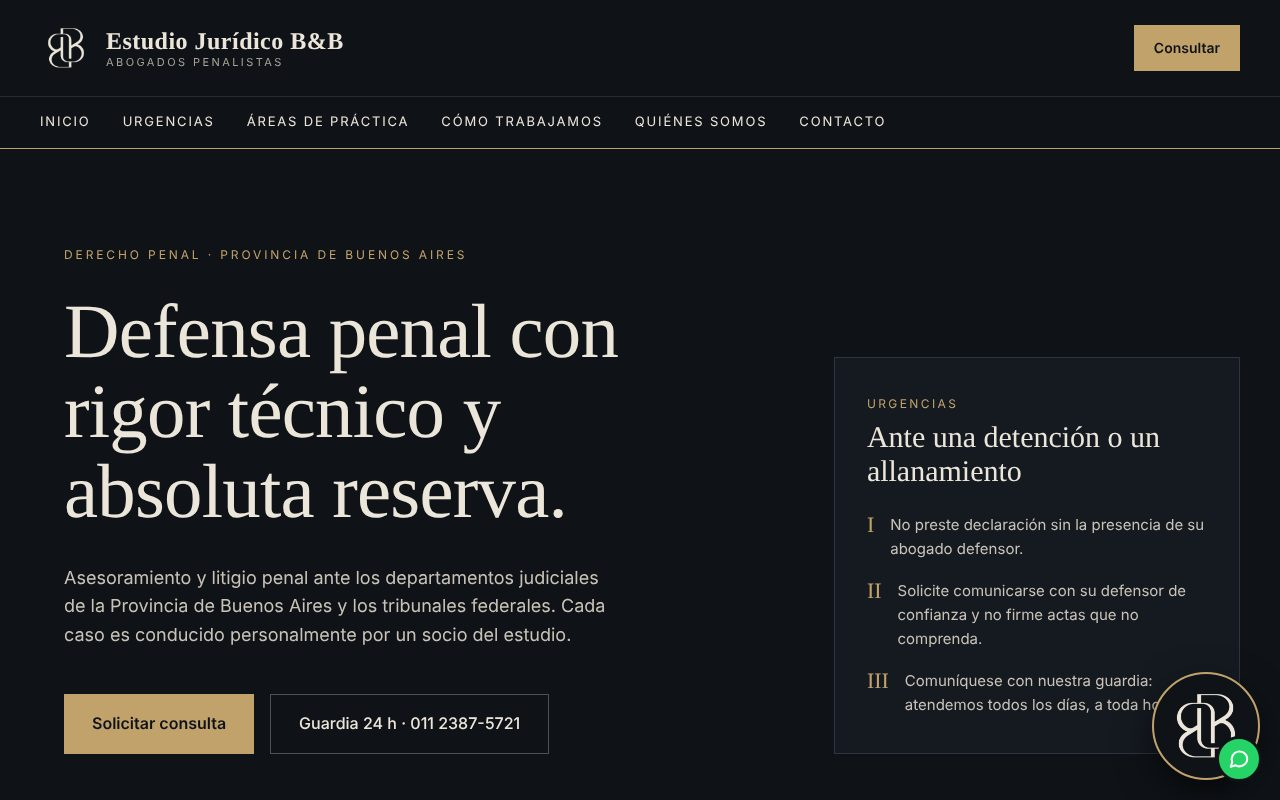
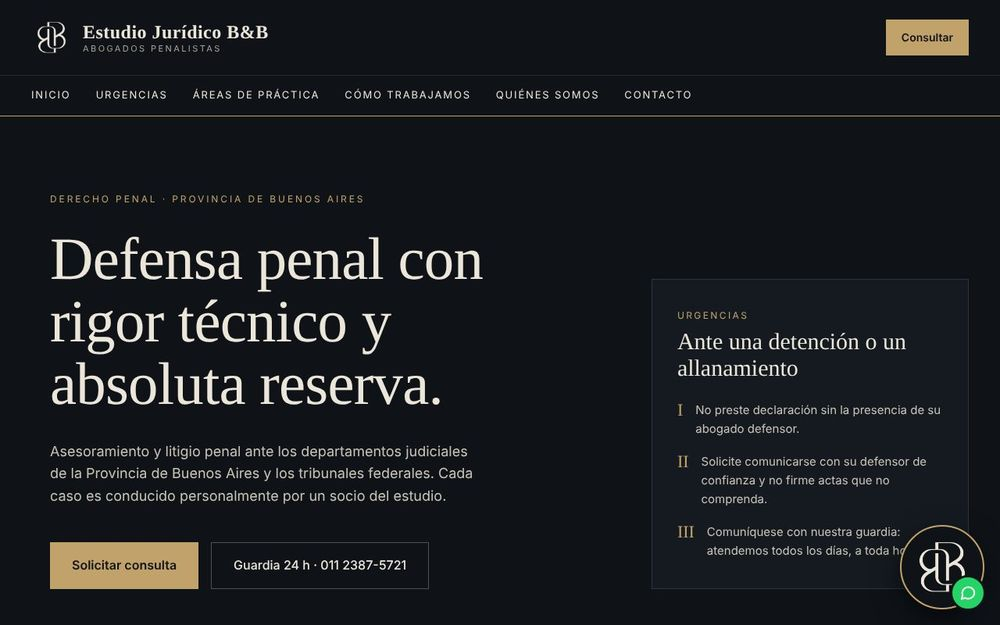
Optimización: más aire en celular, dos columnas en escritorio, imágenes livianas y carga diferida
Claude-Session: https://claude.ai/code/session_01TuFqLeTSKfkFnjbQhhk68N

diff --git a/index.html b/index.html
@@ -355,7 +355,7 @@ body{background:#011F4F!important;background-image:none!important}
 <link rel="stylesheet" href="barra.css">
 </head><body><script>(function(){try{if('scrollRestoration' in history)history.scrollRestoration='manual'}catch(e){}function t(){if(!location.hash)window.scrollTo(0,0)}t();window.addEventListener('load',t);window.addEventListener('pageshow',t)})();</script>
 <header class="lb" id="lbar"><div class="lbin"><a class="lblg" href="index.html" aria-label="legAR, inicio"><img src="legar-tab-blanco.png" alt="legAR" width="63" height="20"></a><a class="lbcta" href="https://wa.me/5492215581661?text=Hola%2C%20vengo%20de%20la%20web%20de%20legAR.%20Quiero%20delegar%20un%20tr%C3%A1mite." target="_blank" rel="noopener"><svg viewBox="0 0 24 24" aria-hidden="true"><path d="M12 2a10 10 0 00-8.6 15.1L2 22l5-1.3A10 10 0 1012 2z" fill="none" stroke="currentColor" stroke-width="2" stroke-linejoin="round"/><path d="M8.5 9.2c.3 2.6 2.7 5 5.3 5.3l1.2-1.3 1.9.9c-.3 1.3-1.4 1.9-2.6 1.8-3.6-.4-6.6-3.4-7-7-.1-1.2.5-2.3 1.8-2.6l.9 1.9z" fill="currentColor"/></svg>WhatsApp</a><button class="lbix" id="lbmb" type="button" aria-expanded="false" aria-controls="lbmn"><svg class="ich" viewBox="0 0 24 24" fill="none" stroke="currentColor" stroke-width="2.2" stroke-linecap="round" aria-hidden="true"><path d="M4 7h16M4 12h16M4 17h10"/></svg><svg class="icx" viewBox="0 0 24 24" fill="none" stroke="currentColor" stroke-width="2.2" stroke-linecap="round" aria-hidden="true"><path d="M6 6l12 12M18 6L6 18"/></svg><span class="t">Índice</span></button></div><nav class="lbtabs" aria-label="Páginas"><a href="index.html" aria-current="page">legAR</a><a href="gestoria.html">Gestoría</a><a href="marketing.html">Marketing jurídico</a><a href="novedades.html">Novedades</a><a href="jurisprudencia.html">Jurisprudencia</a></nav></header><nav class="lbmn" id="lbmn" aria-label="Índice"><div class="lbmw"><p class="lbml">En esta página</p><ol id="lbix"></ol><a class="lbseg" href="gestoria.html#seguimiento"><svg viewBox="0 0 24 24" fill="none" stroke="currentColor" stroke-width="2" stroke-linecap="round" stroke-linejoin="round" aria-hidden="true"><path d="M7 3h7l5 5v6"/><path d="M14 3v5h5M7 3v18h6"/><circle cx="17.5" cy="17.5" r="3"/><path d="M20 20l2 2"/></svg><span><b>Seguí tu trámite</b><span>Entrá con tu código de seguimiento</span></span></a><p class="lbml">Páginas</p><div class="lbpg"><a href="index.html" aria-current="page">legAR</a><a href="gestoria.html">Gestoría</a><a href="marketing.html">Marketing jurídico</a><a href="novedades.html">Novedades</a><a href="jurisprudencia.html">Jurisprudencia</a></div><div class="lbft"><a href="https://instagram.com/diligenciaslp" target="_blank" rel="noopener">Instagram</a><a href="https://wa.me/5492215581661" target="_blank" rel="noopener">WhatsApp 221 558-1661</a><span>Diligenciaslp@gmail.com</span></div></div></nav>
-<header class="hd" style="justify-content:center"><a href="index.html"><img src="legar-logo-blanco.png" alt="legAR" width="160" height="129" style="width:160px;height:auto;aspect-ratio:560/452"></a></header>
+<header class="hd" style="justify-content:center"><a href="index.html"><img src="legar-logo-blanco.png" alt="legAR" width="160" height="129" style="width:160px;height:auto;aspect-ratio:560/452" loading="lazy" decoding="async"></a></header>
 <div class="hcw"><span class="chip hc">Hecho para <b>abogados</b>, <b>estudios jurídicos y contables</b></span></div>
 
 <main class="c">
@@ -376,7 +376,7 @@ body{background:#011F4F!important;background-image:none!important}
 <p class="dfin"><img class="dfl" src="legar-tab-blanco.png" alt="legAR"><span>Presencia, conocimiento e imagen al servicio de tu ejercicio profesional.</span></p><p class="dsrc">Fuente: Diccionario de la lengua española, Real Academia Española.</p></div></section>
 
 <section style="padding-top:10px"><h2>Conocé a <span class="hl">Nicolás Poblete</span></h2><p class="sub">Fundador de legAR · Estudiante avanzado de Derecho (UNLP)</p>
-<img class="me2" src="nicolas.jpg" alt="Nicolás Poblete, creador de legAR" width="340">
+<img class="me2" src="nicolas.jpg" alt="Nicolás Poblete, creador de legAR" width="340" loading="lazy" decoding="async">
 <p style="color:#B8C0CE">Fundé legAR desde la práctica: recorriendo registros, tribunales y organismos, entendí cuánto le cuesta a un abogado gestionar fuera de su jurisdicción.</p>
 <p style="color:#B8C0CE">Mi propósito es que legAR sea su herramienta de trabajo en las dos dimensiones de la profesión: hacia adentro, con cada trámite resuelto en persona y con seguimiento; y hacia afuera, con una imagen que transmita confianza y le acerque nuevos clientes.</p>
 <p><b>Vos delegás, nosotros resolvemos.</b></p></section>

diff --git a/jurisprudencia.html b/jurisprudencia.html
@@ -384,7 +384,7 @@ body{background:#011F4F!important;background-image:none!important}
 <link rel="stylesheet" href="barra.css">
 </head><body><script>(function(){try{if('scrollRestoration' in history)history.scrollRestoration='manual'}catch(e){}function t(){if(!location.hash)window.scrollTo(0,0)}t();window.addEventListener('load',t);window.addEventListener('pageshow',t)})();</script>
 <header class="lb" id="lbar"><div class="lbin"><a class="lblg" href="index.html" aria-label="legAR, inicio"><img src="legar-tab-blanco.png" alt="legAR" width="63" height="20"></a><a class="lbcta" href="https://wa.me/5492215581661?text=Hola%2C%20vengo%20de%20la%20web%20de%20legAR.%20Quiero%20delegar%20un%20tr%C3%A1mite." target="_blank" rel="noopener"><svg viewBox="0 0 24 24" aria-hidden="true"><path d="M12 2a10 10 0 00-8.6 15.1L2 22l5-1.3A10 10 0 1012 2z" fill="none" stroke="currentColor" stroke-width="2" stroke-linejoin="round"/><path d="M8.5 9.2c.3 2.6 2.7 5 5.3 5.3l1.2-1.3 1.9.9c-.3 1.3-1.4 1.9-2.6 1.8-3.6-.4-6.6-3.4-7-7-.1-1.2.5-2.3 1.8-2.6l.9 1.9z" fill="currentColor"/></svg>WhatsApp</a><button class="lbix" id="lbmb" type="button" aria-expanded="false" aria-controls="lbmn"><svg class="ich" viewBox="0 0 24 24" fill="none" stroke="currentColor" stroke-width="2.2" stroke-linecap="round" aria-hidden="true"><path d="M4 7h16M4 12h16M4 17h10"/></svg><svg class="icx" viewBox="0 0 24 24" fill="none" stroke="currentColor" stroke-width="2.2" stroke-linecap="round" aria-hidden="true"><path d="M6 6l12 12M18 6L6 18"/></svg><span class="t">Índice</span></button></div><nav class="lbtabs" aria-label="Páginas"><a href="index.html">legAR</a><a href="gestoria.html">Gestoría</a><a href="marketing.html">Marketing jurídico</a><a href="novedades.html">Novedades</a><a href="jurisprudencia.html" aria-current="page">Jurisprudencia</a></nav></header><nav class="lbmn" id="lbmn" aria-label="Índice"><div class="lbmw"><p class="lbml">En esta página</p><ol id="lbix"></ol><a class="lbseg" href="gestoria.html#seguimiento"><svg viewBox="0 0 24 24" fill="none" stroke="currentColor" stroke-width="2" stroke-linecap="round" stroke-linejoin="round" aria-hidden="true"><path d="M7 3h7l5 5v6"/><path d="M14 3v5h5M7 3v18h6"/><circle cx="17.5" cy="17.5" r="3"/><path d="M20 20l2 2"/></svg><span><b>Seguí tu trámite</b><span>Entrá con tu código de seguimiento</span></span></a><p class="lbml">Páginas</p><div class="lbpg"><a href="index.html">legAR</a><a href="gestoria.html">Gestoría</a><a href="marketing.html">Marketing jurídico</a><a href="novedades.html">Novedades</a><a href="jurisprudencia.html" aria-current="page">Jurisprudencia</a></div><div class="lbft"><a href="https://instagram.com/diligenciaslp" target="_blank" rel="noopener">Instagram</a><a href="https://wa.me/5492215581661" target="_blank" rel="noopener">WhatsApp 221 558-1661</a><span>Diligenciaslp@gmail.com</span></div></div></nav>
-<header class="hd" style="justify-content:center"><a href="index.html"><img src="legar-logo-blanco.png" alt="legAR" width="160" height="129" style="width:160px;height:auto;aspect-ratio:560/452"></a></header>
+<header class="hd" style="justify-content:center"><a href="index.html"><img src="legar-logo-blanco.png" alt="legAR" width="160" height="129" style="width:160px;height:auto;aspect-ratio:560/452" loading="lazy" decoding="async"></a></header>
 <div class="hcw"><span class="chip hc">Hecho para <b>abogados</b>, <b>estudios jurídicos y contables</b></span></div>
 
 <main class="c"><section class="hero"><span class="kick">JURISPRUDENCIA OFICIAL</span><p style="margin-top:10px">Los fallos que <b style="color:#fff;text-decoration:underline;text-decoration-color:#4DA36C;text-decoration-thickness:3px;text-underline-offset:4px">mueven</b> tus trámites, a un toque de la fuente oficial.</p></section>

diff --git a/novedades.html b/novedades.html
@@ -363,7 +363,7 @@ body{background:#011F4F!important;background-image:none!important}
 <link rel="stylesheet" href="barra.css">
 </head><body><script>(function(){try{if('scrollRestoration' in history)history.scrollRestoration='manual'}catch(e){}function t(){if(!location.hash)window.scrollTo(0,0)}t();window.addEventListener('load',t);window.addEventListener('pageshow',t)})();</script>
 <header class="lb" id="lbar"><div class="lbin"><a class="lblg" href="index.html" aria-label="legAR, inicio"><img src="legar-tab-blanco.png" alt="legAR" width="63" height="20"></a><a class="lbcta" href="https://wa.me/5492215581661?text=Hola%2C%20vengo%20de%20la%20web%20de%20legAR.%20Quiero%20delegar%20un%20tr%C3%A1mite." target="_blank" rel="noopener"><svg viewBox="0 0 24 24" aria-hidden="true"><path d="M12 2a10 10 0 00-8.6 15.1L2 22l5-1.3A10 10 0 1012 2z" fill="none" stroke="currentColor" stroke-width="2" stroke-linejoin="round"/><path d="M8.5 9.2c.3 2.6 2.7 5 5.3 5.3l1.2-1.3 1.9.9c-.3 1.3-1.4 1.9-2.6 1.8-3.6-.4-6.6-3.4-7-7-.1-1.2.5-2.3 1.8-2.6l.9 1.9z" fill="currentColor"/></svg>WhatsApp</a><button class="lbix" id="lbmb" type="button" aria-expanded="false" aria-controls="lbmn"><svg class="ich" viewBox="0 0 24 24" fill="none" stroke="currentColor" stroke-width="2.2" stroke-linecap="round" aria-hidden="true"><path d="M4 7h16M4 12h16M4 17h10"/></svg><svg class="icx" viewBox="0 0 24 24" fill="none" stroke="currentColor" stroke-width="2.2" stroke-linecap="round" aria-hidden="true"><path d="M6 6l12 12M18 6L6 18"/></svg><span class="t">Índice</span></button></div><nav class="lbtabs" aria-label="Páginas"><a href="index.html">legAR</a><a href="gestoria.html">Gestoría</a><a href="marketing.html">Marketing jurídico</a><a href="novedades.html" aria-current="page">Novedades</a><a href="jurisprudencia.html">Jurisprudencia</a></nav></header><nav class="lbmn" id="lbmn" aria-label="Índice"><div class="lbmw"><p class="lbml">En esta página</p><ol id="lbix"></ol><a class="lbseg" href="gestoria.html#seguimiento"><svg viewBox="0 0 24 24" fill="none" stroke="currentColor" stroke-width="2" stroke-linecap="round" stroke-linejoin="round" aria-hidden="true"><path d="M7 3h7l5 5v6"/><path d="M14 3v5h5M7 3v18h6"/><circle cx="17.5" cy="17.5" r="3"/><path d="M20 20l2 2"/></svg><span><b>Seguí tu trámite</b><span>Entrá con tu código de seguimiento</span></span></a><p class="lbml">Páginas</p><div class="lbpg"><a href="index.html">legAR</a><a href="gestoria.html">Gestoría</a><a href="marketing.html">Marketing jurídico</a><a href="novedades.html" aria-current="page">Novedades</a><a href="jurisprudencia.html">Jurisprudencia</a></div><div class="lbft"><a href="https://instagram.com/diligenciaslp" target="_blank" rel="noopener">Instagram</a><a href="https://wa.me/5492215581661" target="_blank" rel="noopener">WhatsApp 221 558-1661</a><span>Diligenciaslp@gmail.com</span></div></div></nav>
-<header class="hd" style="justify-content:center"><a href="index.html"><img src="legar-logo-blanco.png" alt="legAR" width="160" height="129" style="width:160px;height:auto;aspect-ratio:560/452"></a></header>
+<header class="hd" style="justify-content:center"><a href="index.html"><img src="legar-logo-blanco.png" alt="legAR" width="160" height="129" style="width:160px;height:auto;aspect-ratio:560/452" loading="lazy" decoding="async"></a></header>
 <div class="hcw"><span class="chip hc">Hecho para <b>abogados</b>, <b>estudios jurídicos y contables</b></span></div>
 
 <main class="c"><section class="hero"><span class="kick">NOVEDADES OFICIALES</span><p style="margin-top:10px">Los <b style="color:#fff;text-decoration:underline;text-decoration-color:#4DA36C;text-decoration-thickness:3px;text-underline-offset:4px">últimos</b> cambios en registros y organismos que tenés que conocer.</p>

diff --git a/marketing.html b/marketing.html
@@ -390,7 +390,7 @@ body{background:#011F4F!important;background-image:none!important}
 <link rel="stylesheet" href="barra.css">
 </head><body><script>(function(){try{if('scrollRestoration' in history)history.scrollRestoration='manual'}catch(e){}function t(){if(!location.hash)window.scrollTo(0,0)}t();window.addEventListener('load',t);window.addEventListener('pageshow',t)})();</script>
 <header class="lb" id="lbar"><div class="lbin"><a class="lblg" href="index.html" aria-label="legAR, inicio"><img src="legar-tab-blanco.png" alt="legAR" width="63" height="20"></a><a class="lbcta" href="https://wa.me/5492215581661?text=Hola%2C%20vengo%20de%20la%20web%20de%20legAR.%20Quiero%20delegar%20un%20tr%C3%A1mite." target="_blank" rel="noopener"><svg viewBox="0 0 24 24" aria-hidden="true"><path d="M12 2a10 10 0 00-8.6 15.1L2 22l5-1.3A10 10 0 1012 2z" fill="none" stroke="currentColor" stroke-width="2" stroke-linejoin="round"/><path d="M8.5 9.2c.3 2.6 2.7 5 5.3 5.3l1.2-1.3 1.9.9c-.3 1.3-1.4 1.9-2.6 1.8-3.6-.4-6.6-3.4-7-7-.1-1.2.5-2.3 1.8-2.6l.9 1.9z" fill="currentColor"/></svg>WhatsApp</a><button class="lbix" id="lbmb" type="button" aria-expanded="false" aria-controls="lbmn"><svg class="ich" viewBox="0 0 24 24" fill="none" stroke="currentColor" stroke-width="2.2" stroke-linecap="round" aria-hidden="true"><path d="M4 7h16M4 12h16M4 17h10"/></svg><svg class="icx" viewBox="0 0 24 24" fill="none" stroke="currentColor" stroke-width="2.2" stroke-linecap="round" aria-hidden="true"><path d="M6 6l12 12M18 6L6 18"/></svg><span class="t">Índice</span></button></div><nav class="lbtabs" aria-label="Páginas"><a href="index.html">legAR</a><a href="gestoria.html">Gestoría</a><a href="marketing.html" aria-current="page">Marketing jurídico</a><a href="novedades.html">Novedades</a><a href="jurisprudencia.html">Jurisprudencia</a></nav></header><nav class="lbmn" id="lbmn" aria-label="Índice"><div class="lbmw"><p class="lbml">En esta página</p><ol id="lbix"></ol><a class="lbseg" href="gestoria.html#seguimiento"><svg viewBox="0 0 24 24" fill="none" stroke="currentColor" stroke-width="2" stroke-linecap="round" stroke-linejoin="round" aria-hidden="true"><path d="M7 3h7l5 5v6"/><path d="M14 3v5h5M7 3v18h6"/><circle cx="17.5" cy="17.5" r="3"/><path d="M20 20l2 2"/></svg><span><b>Seguí tu trámite</b><span>Entrá con tu código de seguimiento</span></span></a><p class="lbml">Páginas</p><div class="lbpg"><a href="index.html">legAR</a><a href="gestoria.html">Gestoría</a><a href="marketing.html" aria-current="page">Marketing jurídico</a><a href="novedades.html">Novedades</a><a href="jurisprudencia.html">Jurisprudencia</a></div><div class="lbft"><a href="https://instagram.com/diligenciaslp" target="_blank" rel="noopener">Instagram</a><a href="https://wa.me/5492215581661" target="_blank" rel="noopener">WhatsApp 221 558-1661</a><span>Diligenciaslp@gmail.com</span></div></div></nav>
-<header class="hd" style="justify-content:center"><a href="index.html"><img src="legar-logo-blanco.png" alt="legAR" width="160" height="129" style="width:160px;height:auto;aspect-ratio:560/452"></a></header>
+<header class="hd" style="justify-content:center"><a href="index.html"><img src="legar-logo-blanco.png" alt="legAR" width="160" height="129" style="width:160px;height:auto;aspect-ratio:560/452" loading="lazy" decoding="async"></a></header>
 <div class="hcw"><span class="chip hc">Hecho para <b>abogados</b>, <b>estudios jurídicos y contables</b></span></div>
 
 <main class="c">

diff --git a/barra.css b/barra.css
@@ -99,3 +99,30 @@ html.lgc-on input,html.lgc-on textarea,html.lgc-on select,html.lgc-on [contented
 .lgcur.lgc-d .lgc-dot{transform:scale(.6)}
 .lgcur.lgc-gone .lgc-egg{opacity:0!important;transition:none}
 .lgc-fly{position:fixed;left:0;top:0;width:72px;height:47px;margin:-26px 0 0 -36px;z-index:2147483001;pointer-events:none;perspective:260px}
+
+/* ===== optimización celular y escritorio ===== */
+/* celular: más aire a los costados, menos espacio muerto entre secciones */
+@media (max-width:600px){
+  html body .c{padding-left:max(18px,env(safe-area-inset-left,0px))!important;padding-right:max(18px,env(safe-area-inset-right,0px))!important}
+  html body section:not(.hero){padding-top:30px!important;padding-bottom:10px!important}
+  html body .gb{height:34px;margin-top:18px}
+  html body hr.ds{margin:6px auto}
+  html body .sub{margin-bottom:18px}
+  html body details{margin-bottom:8px}
+  html body .sv2{gap:8px!important}
+  html body details.cat summary{padding:12px 14px}
+  html body .ad,html body .mj,html body .bn,html body ol{gap:8px}
+  html body .bub{height:min(92vw,360px)}
+}
+/* escritorio: columna más ancha y tarjetas en dos columnas */
+@media (min-width:960px){
+  html body .c{max-width:860px}
+  html body .sv2{grid-template-columns:repeat(2,minmax(0,1fr))!important;gap:12px!important;align-items:start}
+  html body .sv2 details.cat{margin:0}
+  html body .sv2 details.cat[open]{grid-column:1/-1}
+  html body .ad,html body .mj,html body .qhg{display:grid;grid-template-columns:repeat(2,minmax(0,1fr));gap:12px}
+  html body .ad>*,html body .mj>*{min-width:0}
+  html body .jbg{grid-template-columns:repeat(3,minmax(0,1fr))}
+  html body .rf,html body .sgt .tk,html body .faq details,html body #faqm details,html body .dic,html body .tl2,html body .ct .l,html body form{max-width:640px;margin-left:auto;margin-right:auto}
+  html body .sub{max-width:38em}
+}
